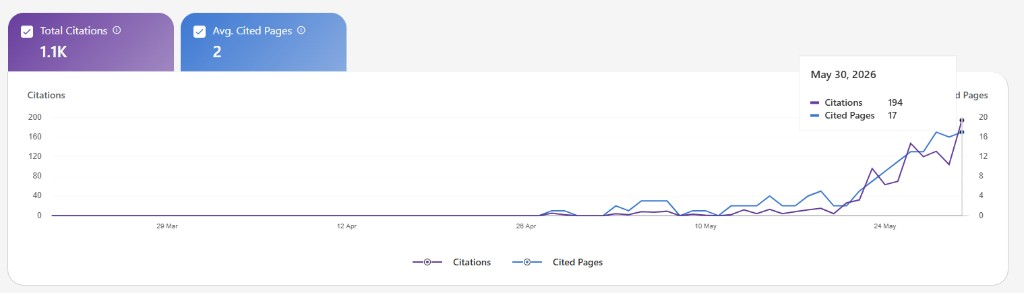
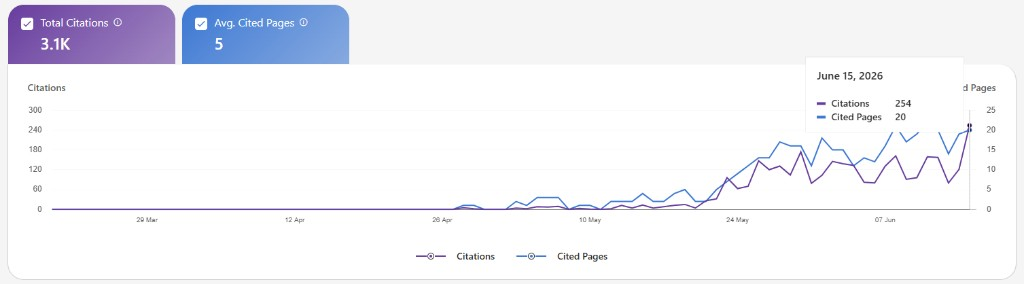
case-study(homecalc): refresh citation chart and centralize claim strings

diff --git a/src/lib/homecalc-proof.ts b/src/lib/homecalc-proof.ts
@@ -1,4 +1,16 @@
-/** Shared HomeCalc proof metrics — outcome only, no mechanism. Updated 2026-06-17. */
+/**
+ * Single source of truth for all HomeCalc proof metrics shown across hamitahm.com.
+ *
+ * Update HOMECALC_PROOF below. The HOMECALC_CLAIMS strings auto-derive from it,
+ * so every page that imports them (hami-tahm, the-10000-hour-rule, all 6 AI
+ * Visibility pages, seo-expert-toronto, orthodontic-seo-marketing-case-study,
+ * and the case study itself) updates with one change here.
+ *
+ * Outcome only. Never put the underlying mechanism in this file or anywhere
+ * else on the public site — that is paid IP.
+ *
+ * Last updated: 2026-06-17.
+ */
 export const HOMECALC_PROOF = {
   citations: "3,100+",
   pagesCited: "20+",
@@ -8,6 +20,33 @@ export const HOMECALC_PROOF = {
   siteUrl: "https://homecalc.ca/",
   peakPerDay: "250+",
   topCitationShare: "88%",
+} as const;
+
+const CITATIONS_BARE = HOMECALC_PROOF.citations.replace("+", "");
+const TIMEFRAME_TITLE = HOMECALC_PROOF.timeframe
+  .split(" ")
+  .map((w) => (w[0] ? w[0].toUpperCase() + w.slice(1) : w))
+  .join(" ");
+
+/**
+ * Pre-formatted claim phrases. Use these on every page instead of hardcoding
+ * the numbers. When HOMECALC_PROOF changes, all phrases update automatically.
+ */
+export const HOMECALC_CLAIMS = {
+  /** "3,100+ AI citations in 60 days" */
+  citationsInTimeframe: `${HOMECALC_PROOF.citations} AI citations in ${HOMECALC_PROOF.timeframe}`,
+  /** "over 3,100 AI citations in 60 days" */
+  overCitationsInTimeframe: `over ${CITATIONS_BARE} AI citations in ${HOMECALC_PROOF.timeframe}`,
+  /** "3,100-citation lift visible in 60 days" (compound, no plus sign) */
+  liftVisible: `${CITATIONS_BARE}-citation lift visible in ${HOMECALC_PROOF.timeframe}`,
+  /** "full 3,100-citation lift visible in 60 days" */
+  fullLiftVisible: `full ${CITATIONS_BARE}-citation lift visible in ${HOMECALC_PROOF.timeframe}`,
+  /** "near-zero to 3,100+ AI citations in 60 days" */
+  zeroToCitations: `near-zero to ${HOMECALC_PROOF.citations} AI citations in ${HOMECALC_PROOF.timeframe}`,
+  /** "HomeCalc case study — 3,100+ AI citations in 60 days" */
+  caseStudyCardLabel: `HomeCalc case study — ${HOMECALC_PROOF.citations} AI citations in ${HOMECALC_PROOF.timeframe}`,
+  /** "3,100+ AI Citations. 60 Days." (hero / H2 punch line) */
+  heroPunchLine: `${HOMECALC_PROOF.citations} AI Citations. ${TIMEFRAME_TITLE}.`,
 } as const;
 
 export const HOMECALC_CITED_PAGES = [

diff --git a/src/app/the-10000-hour-rule/page.tsx b/src/app/the-10000-hour-rule/page.tsx
@@ -1,6 +1,7 @@
 import type { Metadata } from "next";
 import Image from "next/image";
 import Link from "next/link";
+import { HOMECALC_CLAIMS } from "@/lib/homecalc-proof";
 
 export const metadata: Metadata = {
   title: "The 10,000-Hour Rule — Hours to Reach 7/10 Mastery",
@@ -353,8 +354,8 @@ export default function Post() {
             >
               HomeCalc case study
             </Link>{" "}
-            (1,100+ AI citations in 30 days on a YMYL site under three months
-            old).
+            ({HOMECALC_CLAIMS.citationsInTimeframe} on a YMYL site under three
+            months old).
           </p>
           <div style={{ display: "flex", gap: 14, justifyContent: "center", flexWrap: "wrap" }}>
             <Link

diff --git a/src/app/case-studies/homecalc-ai-visibility/page.tsx b/src/app/case-studies/homecalc-ai-visibility/page.tsx
@@ -419,8 +419,8 @@ export default function HomeCalcCaseStudy() {
               <Image
                 src={CHART_SRC}
                 alt={CHART_ALT}
-                width={1200}
-                height={520}
+                width={1024}
+                height={284}
                 loading="lazy"
                 style={{
                   width: "100%",